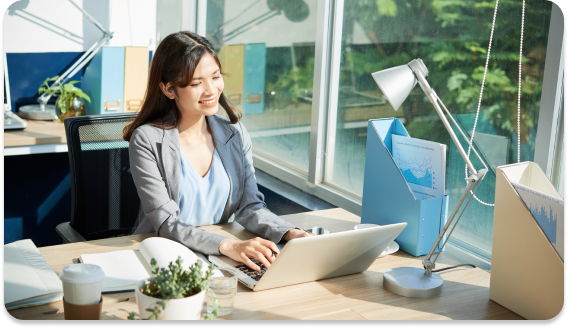
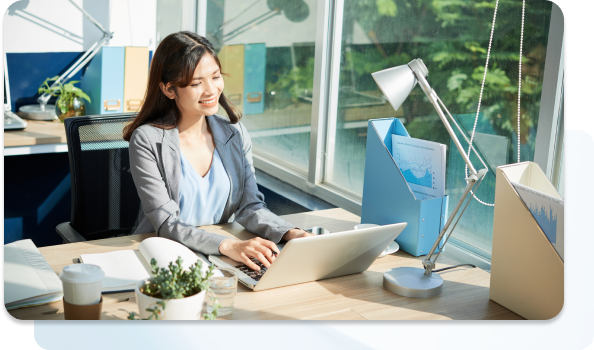
feature: 徵才頁面更換素材及部分區塊加上背景

diff --git a/resources/js/frontdesk/pages/recruitingv2.vue b/resources/js/frontdesk/pages/recruitingv2.vue
@@ -4,7 +4,7 @@
     <section class="intro">
       <h1 class="h1">挑戰自我 超越自我</h1>
       <div class="block-content">
-        <div class="d-sm-block d-none">
+        <div class="d-md-block d-none">
           <div>
             歡迎一起加入年輕活潑的「<span class="em-1">普匯金融科技</span
             >」家族！
@@ -28,7 +28,7 @@
             共同邁向國際大舞台！
           </div>
         </div>
-        <div class="d-sm-none d-block mx-4">
+        <div class="d-md-none d-block mx-4">
           <div>
             歡迎一起加入年輕活潑的<br />
             「<span class="em-1">普匯金融科技</span>」家族！
@@ -52,7 +52,7 @@
             共同邁向國際大舞台！
           </div>
         </div>
-        <div class="pl-sm-5 pl-0">
+        <div class="pl-md-5 pl-0">
           <img
             src="@/asset/images/recuirt/recruit-intro.png"
             class="img-fluid"
@@ -64,13 +64,13 @@
       <h1 class="h1">福利與好康</h1>
       <div class="block-content">
         <div class="row no-gutters">
-          <div class="col-sm col-12">
+          <div class="col-md col-12">
             <img
               src="@/asset/images/recuirt/recruit-benefit.png"
               class="img-fluid"
             />
           </div>
-          <div class="col-sm-6 col-12 p-sm-3 p-0 pt-4">
+          <div class="col-md-6 col-12 p-md-3 p-0 pt-4 benefit-list-group">
             <div class="benefit-list">•勞保、健保、勞退等基本規範</div>
             <div class="benefit-list">•舒適的工作環境</div>
             <div class="benefit-list">•完善業務獎金制度</div>
@@ -267,8 +267,10 @@ $color__background--primary: #f3f9fc;
     color: $color--primary;
   }
   .block-content {
-    margin-top: 35px;
-    padding-bottom: 35px;
+    padding: 35px 0;
+    background-image: url('~images/recuirt/recruit-benefit-bg.svg');
+    background-repeat: no-repeat;
+    background-position: right -15px top;
   }
   .benefit-list {
     margin-bottom: 22px;
@@ -339,8 +341,14 @@ $color__background--primary: #f3f9fc;
   .benefit {
     padding: 26px 0;
     .block-content {
-      margin-top: 27px;
-      padding-bottom: 50px;
+      background-image: none;
+      padding: 30px 15px 50px;
+    }
+    .benefit-list-group {
+      background-image: url('~images/recuirt/recruit-benefit-bg-phone.svg');
+      background-size: cover;
+      background-position: top center;
+      background-repeat: no-repeat;
     }
     .benefit-list {
       margin-bottom: 6px;
@@ -350,7 +358,7 @@ $color__background--primary: #f3f9fc;
       display: grid;
       margin-top: 80px;
       grid-template-columns: repeat(2, 1fr);
-      gap: 25px;
+      gap: 25px 0;
       .benefit-item {
         display: flex;
         flex-direction: column;
